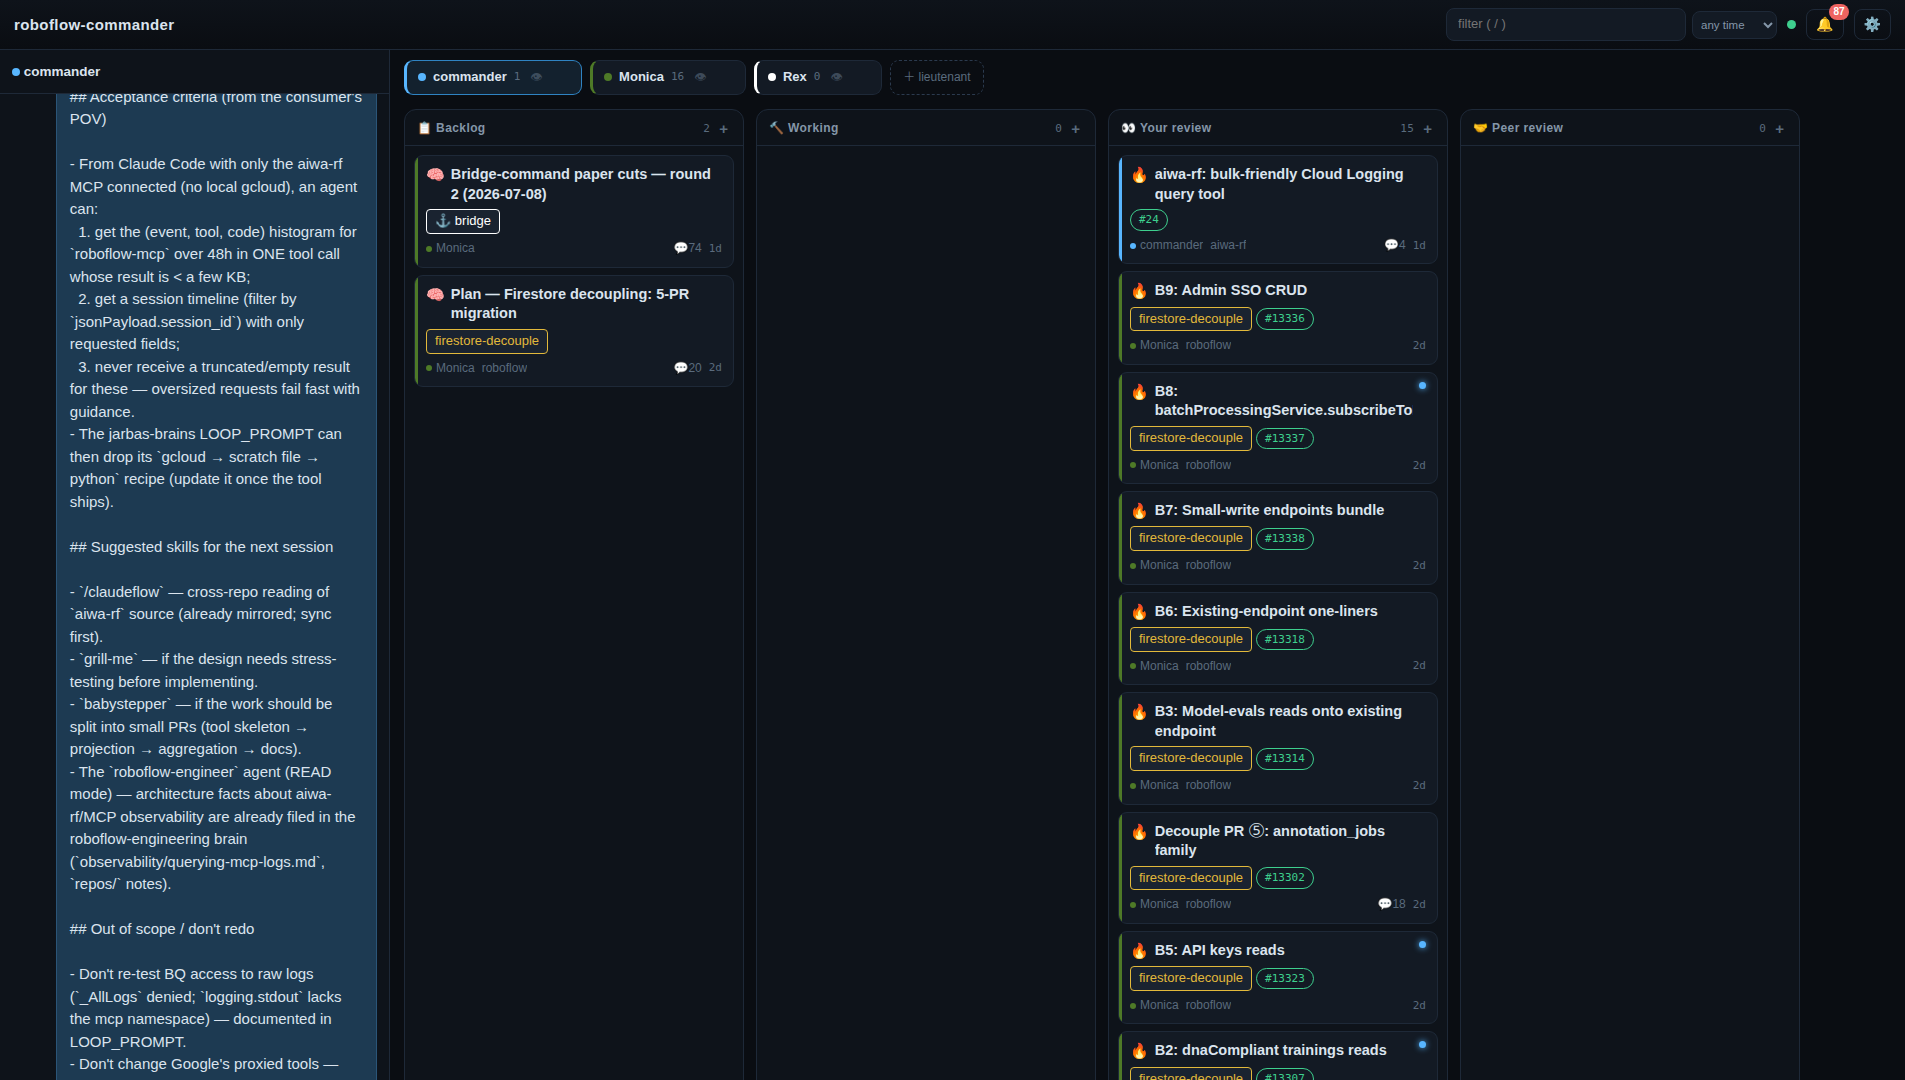
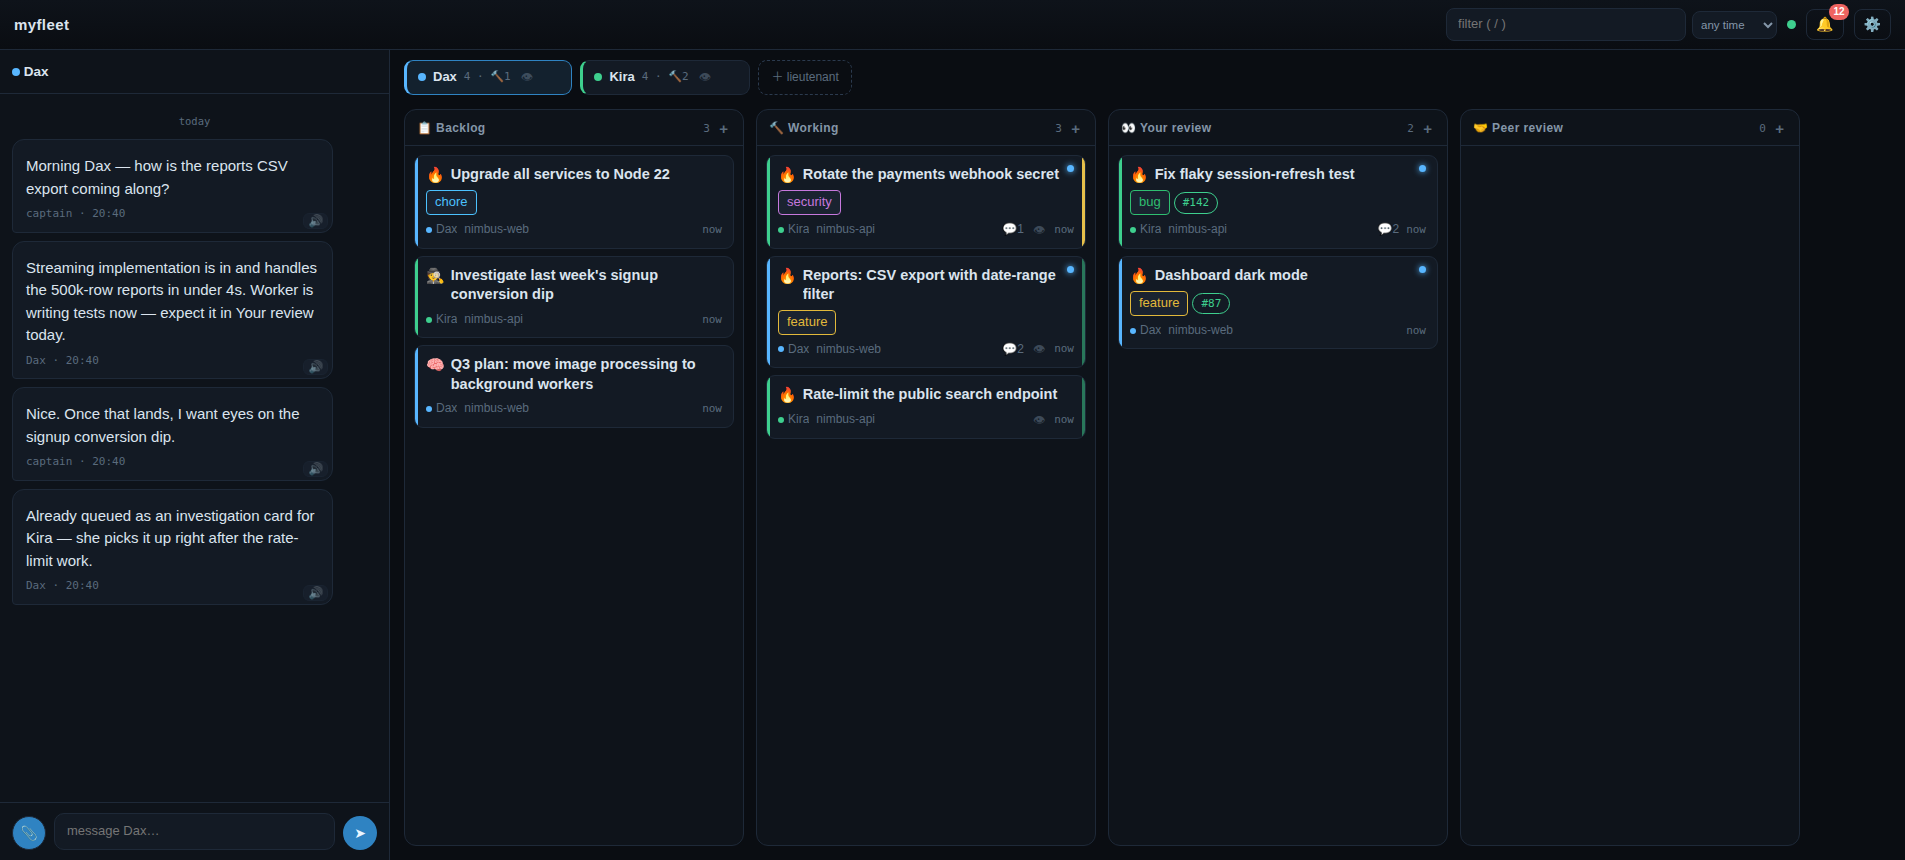
Install test in Docker + fresh README screenshot from its demo board
test/install/docker-install-test.sh verifies the README install procedure
end-to-end in a pristine node:22 container (npx skills add -> SKILL.md step-0
bootstrap -> treehouse/no-mistakes installers -> bc-axi init inside tmux).
--demo additionally populates a realistic demo board (projects, lieutenants,
started workers via a harness shim, threads, PRs, statuses) and keeps it
running on port 4790 — the fixture behind docs/img/board.png, regenerated here.

Claude-Session: https://claude.ai/code/session_013zqeeYiHRA8aLR3rdD274X

diff --git a/OPERATIONS.md b/OPERATIONS.md
@@ -59,4 +59,8 @@ retries on its own.
   `node --test test/*.test.js harness/test/*.test.js`.
 - Never run it under `/tmp` — the ui/js ESM files fail to load there and tests go red for the
   wrong reason.
-- `stale.test.js` is load-sensitive: re-run it alone before calling it red.
+- `stale.test.js` and `prwatch.test.js` are load-sensitive: re-run the failing one alone before
+  calling it red.
+- `test/install/docker-install-test.sh` verifies the README install procedure end-to-end in a
+  pristine Docker container; `--demo` also populates a demo board on port 4790 (the fixture
+  behind the README screenshot) and keeps the container running.